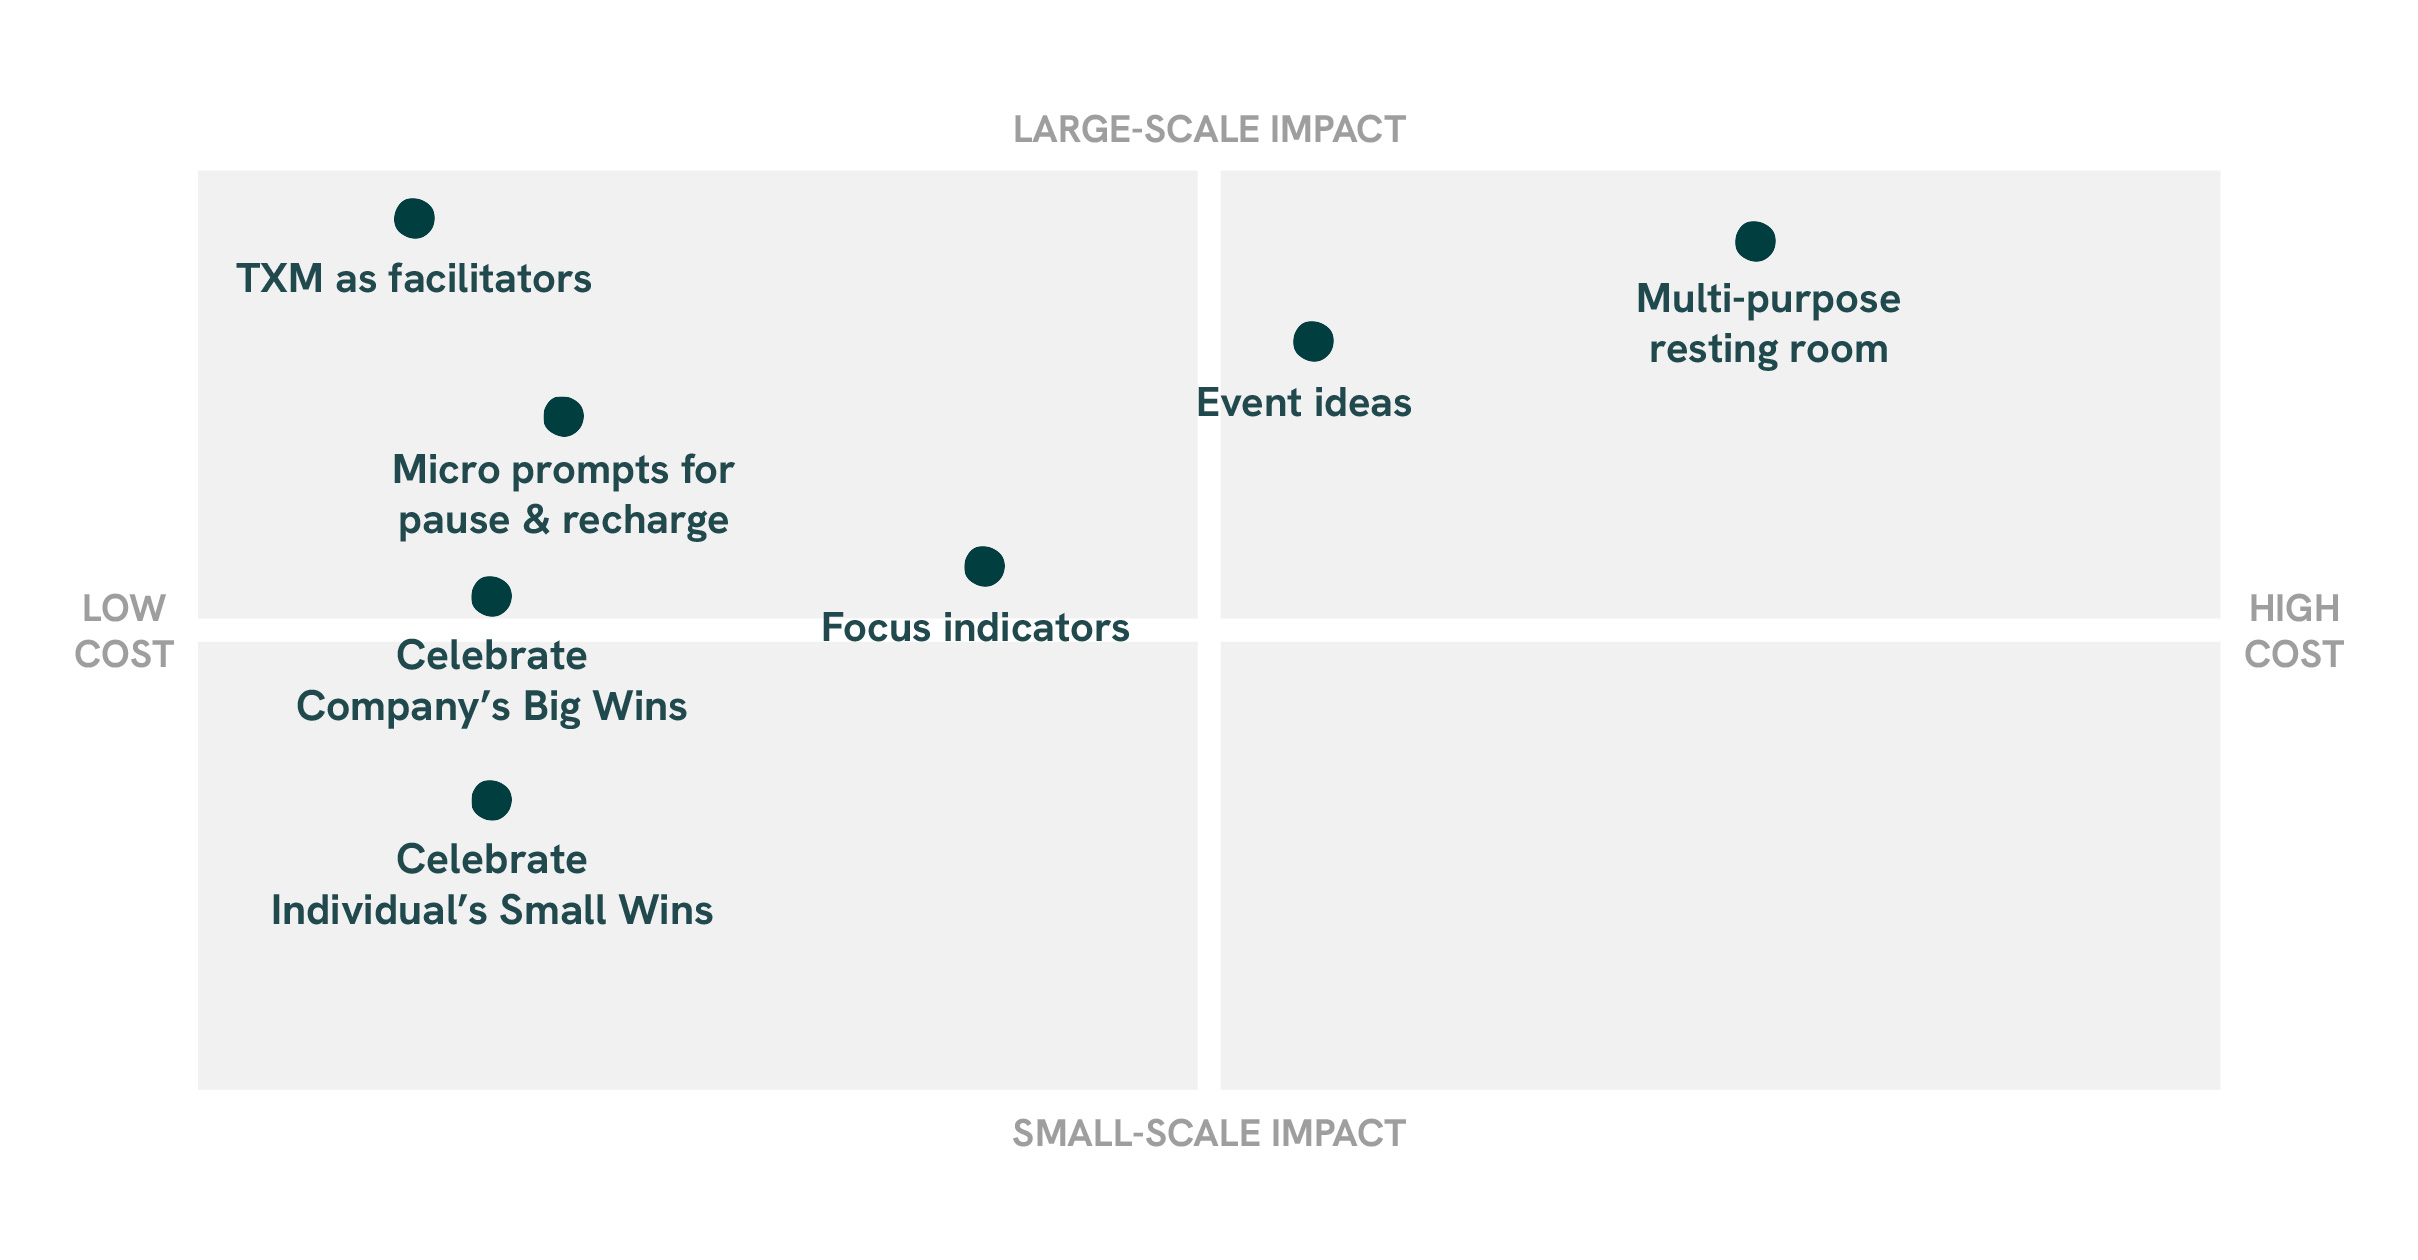
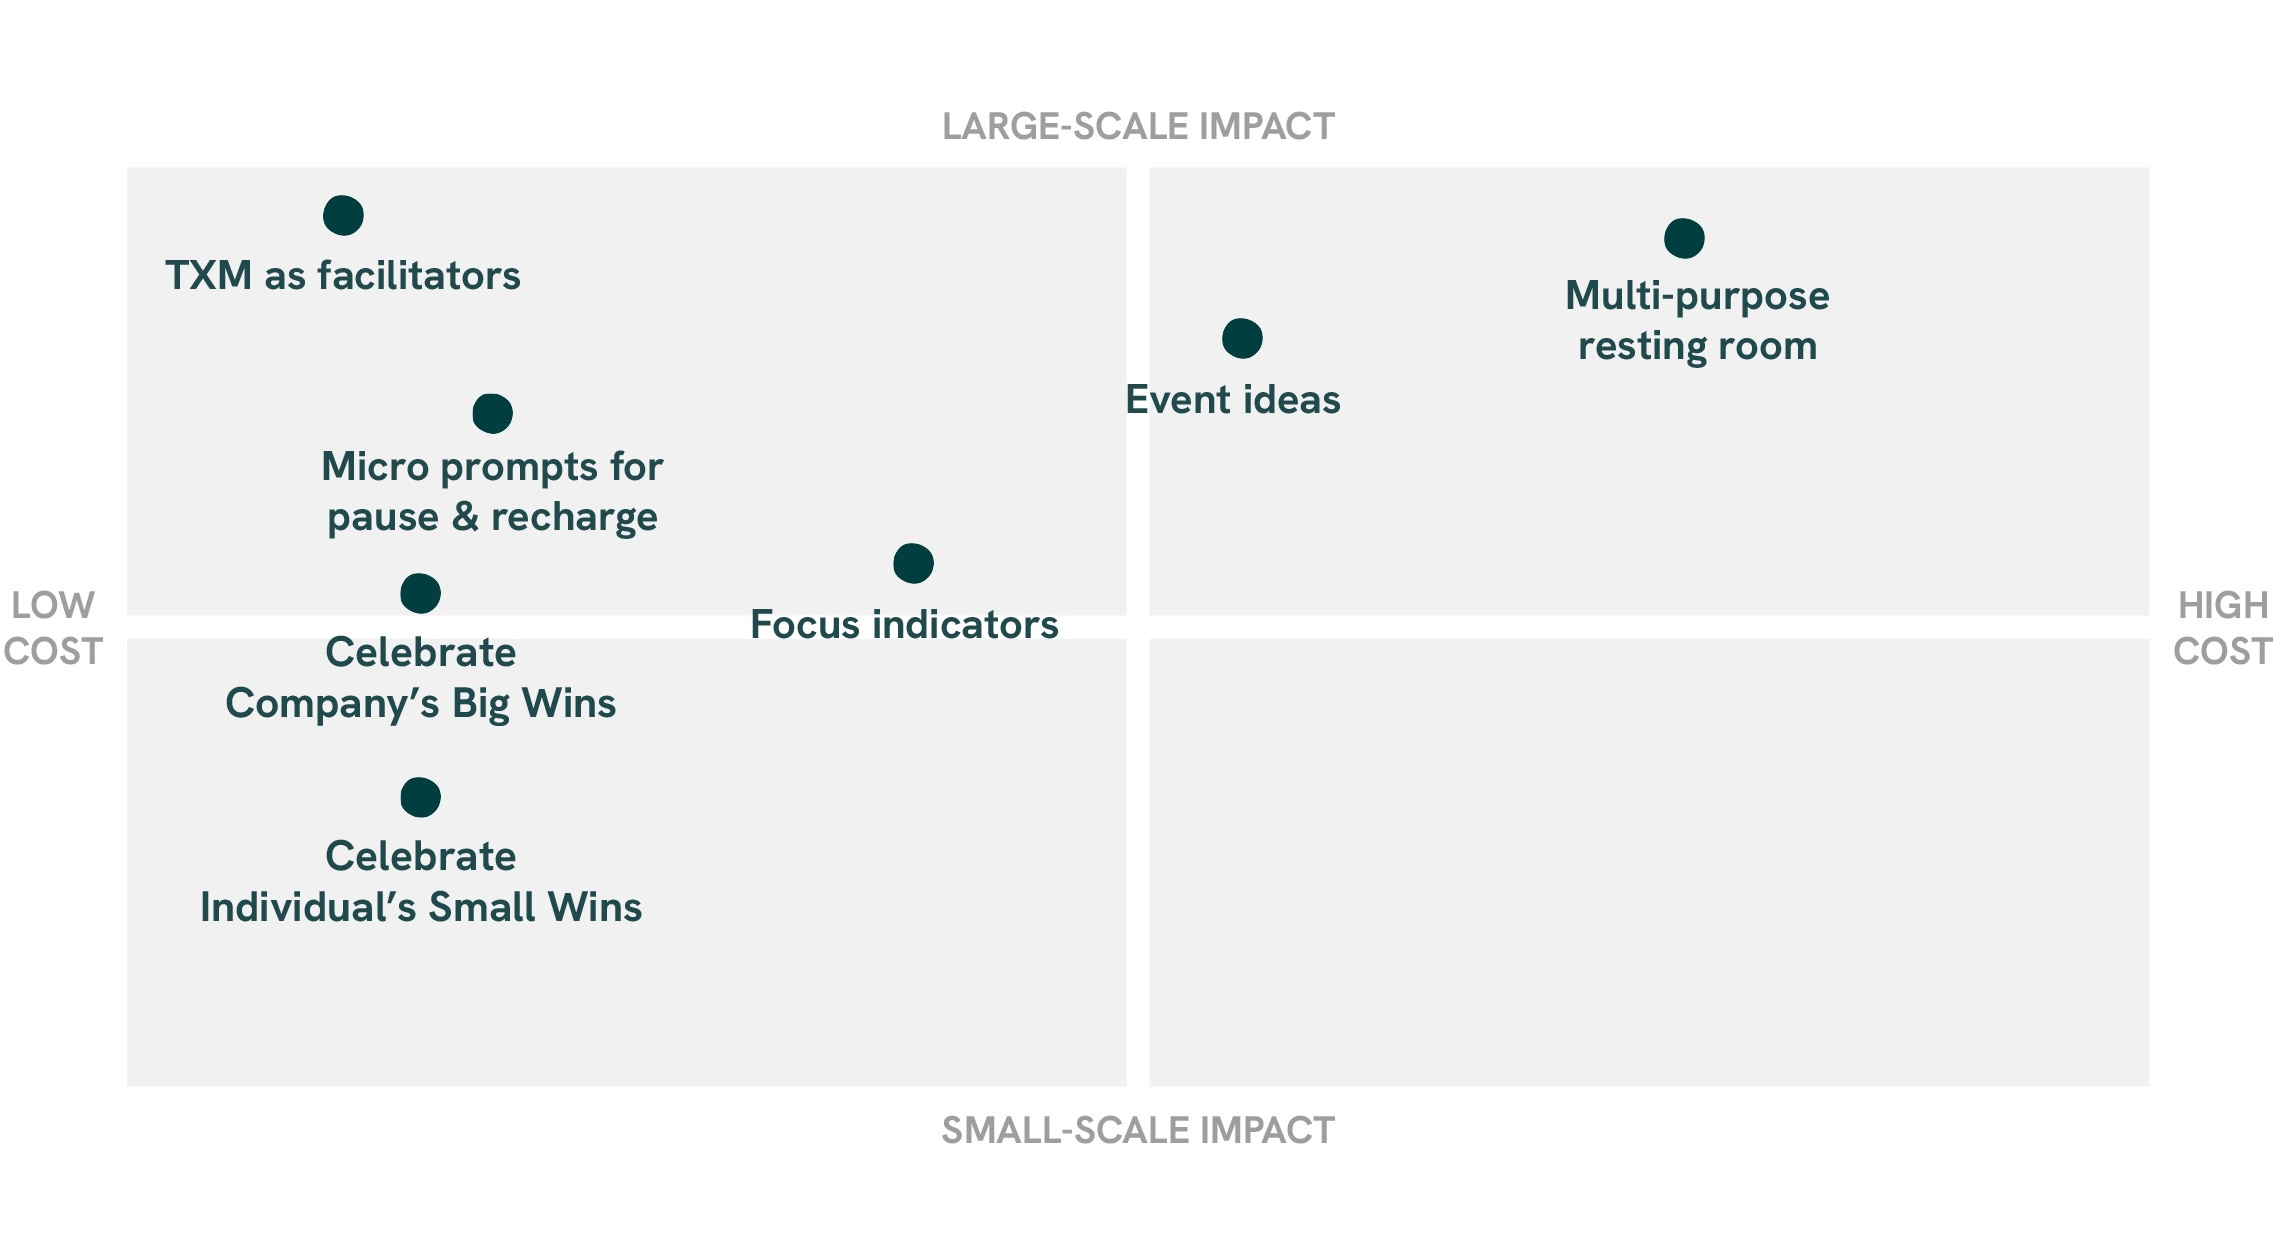
Tighten spacing, fix GreenThumb research-band nesting, refine CleanPaws copy

diff --git a/projects/project-4.html b/projects/project-4.html
@@ -27,7 +27,7 @@
       <li class="toc-star"><img src="../images/star.png" alt=""></li>
       <li><a href="#problem" class="toc-link">The Problem Was<br>Never Awareness</a></li>
       <li><a href="#research" class="toc-link">What the<br>Research Showed</a></li>
-      <li><a href="#solution" class="toc-link">Building the Thing</a></li>
+      <li><a href="#solution" class="toc-link">The Prototype</a></li>
       <li><a href="#testing" class="toc-link">What Testing<br>Revealed</a></li>
       <li><a href="#possibilities" class="toc-link">What This<br>Makes Possible</a></li>
       <li><a href="#outcome" class="toc-link">What I Took Away</a></li>
@@ -68,13 +68,10 @@
     <div class="case-section fade-in" id="problem">
       <h2>The Problem Was Never Awareness</h2>
       <p>
-        Dog waste on NYC sidewalks isn't a mystery. Everyone sees it, everyone knows it's a problem, and as of February 2026, NYC has received close to 1,000 complaints about it. But complaints don't translate to change. Neighborhoods with the highest rates often have the fewest free bags or accessible bins, and enforcement requires an officer to witness the act — making the Pooper-Scooper Law nearly impossible to enforce at scale.
+        Dog waste on NYC sidewalks isn't a mystery. Everyone sees it, everyone knows it's a problem, and as of February 2026, NYC has received close to 1,000 complaints about it. But complaints don't translate to change. Neighborhoods with the highest rates often have the fewest free bags or accessible bins, and enforcement requires an officer to witness the act, making the Pooper-Scooper Law nearly impossible to enforce at scale.
       </p>
       <p>
         The gap isn't knowledge. It's infrastructure and incentive.
-      </p>
-      <p>
-        So the city does what cities do: runs awareness campaigns. And almost every one leads with shame.
       </p>
     </div>
 
@@ -86,13 +83,13 @@
         <div class="case-section fade-in" id="research">
           <h2>What the Research Showed</h2>
           <p>
-            The NYC Department of Sanitation has run shame campaigns. Neighborhoods have posted signs calling out repeat offenders. These efforts get attention. They don't change behavior.
+            The default response has been awareness campaigns, and almost every one leads with shame. The NYC Department of Sanitation has run campaigns calling out repeat offenders. Neighborhoods have posted signs publicly naming individuals. These efforts get attention, but they don't change behavior.
           </p>
           <p>
-            What the research kept pointing to was simpler: shame creates resistance, recognition creates momentum. Research on waste reduction campaigns found that visible collective progress motivates even the least-engaged participants to contribute at levels comparable to those already committed (Frontiers in Psychology, 2019). When cleanup feels like contributing to something shared, people show up.
+            The research pointed to something more fundamental: shame creates resistance, while recognition creates momentum. A 2019 study in Frontiers in Psychology found that when collective progress is made visible, even the least-engaged participants contribute at levels comparable to those already committed. When cleanup feels like contributing to something shared rather than avoiding a fine, people show up differently.
           </p>
           <p>
-            The data made the case. But what stuck with me was the story underneath it — that people actually want to do the right thing. They just need a reason that feels good, not a reason to feel watched.
+            The data made the case, but what stayed with me was the story underneath it. People actually want to do the right thing. They just need a reason that feels good, not a reason to feel watched.
           </p>
         </div>
 
@@ -115,18 +112,18 @@
 
     <!-- BUILDING THE THING -->
     <div class="case-section fade-in" id="solution">
-      <h2>Building the Thing</h2>
+      <h2>The Prototype</h2>
       <p>
-        CleanPaws is an interactive dog-waste station designed for sidewalks and parks. Built with an Arduino and a load cell, it detects when a bag is dropped in and responds immediately. The station combines a waste bin, a built-in bag dispenser, and a small screen.
+        CleanPaws is an interactive dog-waste station designed for sidewalks and parks. Built with an Arduino and a load cell, it detects when a bag is dropped in and responds in real time. The station combines a waste bin, a built-in bag dispenser, and a small screen.
       </p>
       <p>
-        The interaction is intentionally small. Drop a bag, get a response. The screen lights up with a friendly message and plays a chime — just enough to acknowledge the action without feeling over the top. Messages rotate to keep it fresh.
+        The interaction is intentionally small. Drop a bag, get a response. The screen lights up with a friendly message and plays a chime, just enough to acknowledge the action without overstating it. Messages rotate to keep it fresh. A fullness meter under "Every Bag Counts" updates with each deposit, giving people immediate feedback that their action moved the needle.
       </p>
       <p>
         A fullness meter under "Every Bag Counts" updates in real time, so people can see that their action moved the needle. And when the bin reaches capacity, the station briefly celebrates: 20 kilograms collected, 96 million gallons of water protected, enough to supply 877 NYC households. The final screen reads: "Community makes it happen."
       </p>
       <p>
-        That last part matters. The numbers give people a reason to believe their action counts. The framing gives them a reason to care.
+        When the bin reaches capacity, the station briefly celebrates: 20 kilograms collected, 96 million gallons of water protected, enough to supply 877 NYC households. The final screen reads "Community makes it happen." The numbers give people a reason to believe their action counts. The framing gives them a reason to care.
       </p>
     </div>
 
@@ -144,7 +141,7 @@
     <div class="case-section fade-in" id="testing">
       <h2>What Testing Revealed</h2>
       <p>
-        People genuinely enjoyed the interaction. The chime and message made cleanup feel good rather than obligatory, and the impact data helped people connect a small action to something much larger. A bigger screen or subtle lighting could make the moment land even harder — something to explore in the next iteration.
+        People genuinely enjoyed the interaction. The chime and message made cleanup feel good rather than obligatory, and the impact data helped people connect a small action to something much larger.
       </p>
     </div>
 
@@ -152,7 +149,7 @@
     <div class="case-section fade-in" id="possibilities">
       <h2>What This Makes Possible</h2>
       <p>
-        CleanPaws reframes a compliance problem as a participation opportunity. The infrastructure removes the barrier, the feedback makes the action feel worthwhile, and the collective data gives a sidewalk habit a larger meaning. It's a small interaction — but one that could scale into something the neighborhood actually feels.
+        CleanPaws reframes a compliance problem as a participation opportunity. The infrastructure removes the barrier, the feedback makes the action feel worthwhile, and the collective data gives an everyday habit a larger meaning. It is a small interaction, but one that could scale into something the neighborhood actually feels.
       </p>
     </div>
 
@@ -165,21 +162,21 @@
           <span class="takeaway-number">1</span>
           <div>
             <h3>Data builds credibility, story builds memory</h3>
-            <p>Numbers alone don't move people — but numbers with context do. "96 million gallons of water protected" lands differently than a statistic on a poster because it gives people a way to picture the impact of something they just did.</p>
+            <p>Numbers alone don't move people, but numbers with context do. "96 million gallons of water protected" lands differently than a statistic on a poster because it gives people a way to picture the impact of something they just did.</p>
           </div>
         </div>
         <div class="takeaway-item">
           <span class="takeaway-number">2</span>
           <div>
             <h3>Design for behavior, not compliance</h3>
-            <p>Positive feedback loops outlast punishment and awareness campaigns. Making an action feel good is more sustainable than making people feel guilty — and a lot more fun to design.</p>
+            <p>Positive feedback loops outlast punishment and awareness campaigns. Making an action feel good is more sustainable than making people feel guilty, and a lot more interesting to design.</p>
           </div>
         </div>
         <div class="takeaway-item">
           <span class="takeaway-number">3</span>
           <div>
             <h3>Infrastructure is half the solution</h3>
-            <p>A free bag dispenser isn't a design detail. It's the thing that removes the most common excuse. Sometimes the most impactful design decision is just making the right thing easy.</p>
+            <p>A free bag dispenser isn't a design detail. It's the thing that removes the most common excuse. Sometimes the most impactful design decision is making the right thing easy.</p>
           </div>
         </div>
       </div>

diff --git a/projects/project-2.html b/projects/project-2.html
@@ -175,7 +175,7 @@
             </figure>
             <figure>
               <img src="../images/workshop-2.jpg" alt="Nature journaling at the workshop" loading="lazy" style="object-position: center 20%;">
-              <figcaption>Nature journaling at Green Oasis Community Garden</figcaption>
+              <figcaption>An informational book on different plants</figcaption>
             </figure>
           </div>
           <figure style="margin: 40px 0 0;">
@@ -183,6 +183,9 @@
             <figcaption class="image-caption">8-fold nature journaling tool used during the workshop</figcaption>
           </figure>
         </div>
+
+      </div>
+    </div>
 
     <!-- SOLUTION -->
     <div class="case-section fade-in" id="solution">

diff --git a/projects/project-3.html b/projects/project-3.html
@@ -208,7 +208,7 @@
       <p>
         A multi-purpose room for napping, meditation, prayer, or quiet reflection gives members a place to step away without stepping out. Keeping the name neutral makes it inclusive rather than prescriptive, and signals that people are genuinely cared for.
       </p>
-      <figure style="margin: 40px 0 0;">
+      <figure style="margin: 50px 0 0;">
         <img src="../images/impact-chart.png" alt="Framework mapped by cost and potential impact" loading="lazy" style="width: 100%; display: block; mix-blend-mode: multiply;">
       </figure>
     </div>

diff --git a/css/style.css b/css/style.css
@@ -406,7 +406,6 @@ nav {
   grid-template-columns: 1fr 1fr;
   gap: 20px;
   align-items: center;
-  margin-top: 20px;
 }
 
 .findings-image img {
@@ -475,7 +474,7 @@ nav {
   line-height: 1.4;
   color: var(--dark-gray);
   margin-top: 25px;
-  margin-bottom: 8px;
+  margin-bottom: 5px;
 }
 
 .h3-star {
@@ -1305,7 +1304,7 @@ footer p {
    ======================================== */
 .case-cta {
   text-align: center;
-  padding: 4rem 0 3rem;
+  padding: 3rem 0;
 }
 
 .case-cta a {
